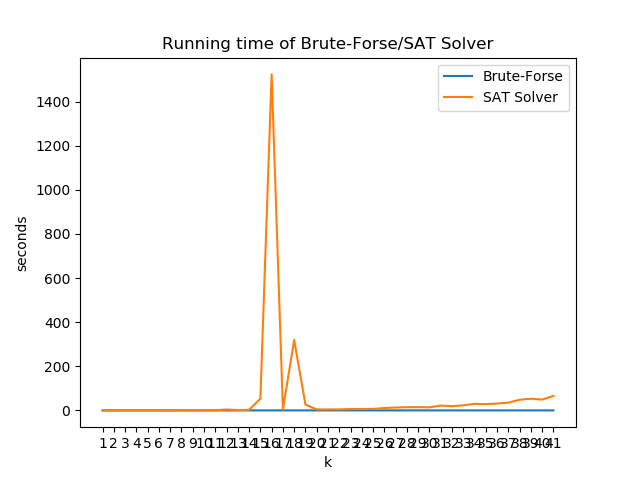
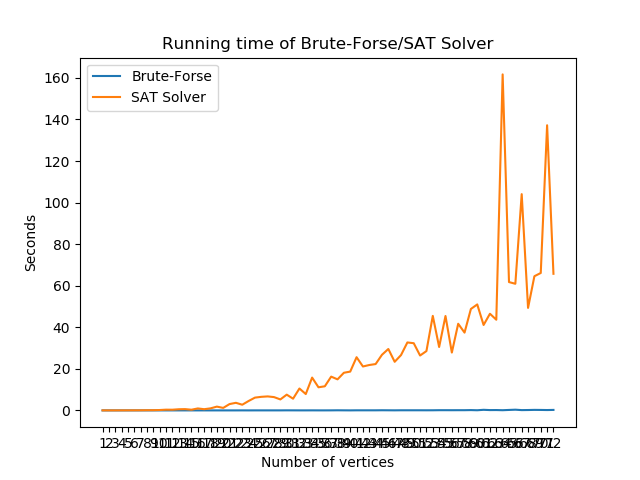
complete

diff --git a/algorithm.py b/algorithm.py
@@ -342,7 +342,7 @@ def dfs_shortest_length(graph, source, target, weight):
 def copy_k_vertices(variables, k):
     return [[Vertex(v.name+str(i)) for i in range(k)] for v in variables]
     
-@profile
+#@profile
 def clique_to_sat(graph, k):
     """
     Clique problem:
@@ -352,38 +352,39 @@ def clique_to_sat(graph, k):
     
     Return a list of CNF clauses that encodes a clique problem to a SAT problem
     """
-    
+    clause = 0
     flatten = lambda list : [item for sublist in list for item in sublist]
     flat_vertices = flatten(copy_k_vertices(graph.vertices, k))
     variables = [Symbol(v.name, INT) for v in flat_vertices]
     first_formula = And([And(GE(v, Int(0)), LE(v, Int(1))) for v in variables])
+    clause += 2*len(variables)
     
     # 1st Constraint
     temp_list = ([[v for v in variables if str(v)[-len(str(r)):] == str(r)] for r in range(k)])
     sum_first_constraint = [Equals(Plus(l), Int(1)) for l in temp_list]
     first_constraint = And(sum_first_constraint)
+    clause += len(temp_list)
     
     # 2nd Constraint
     temp_list = [[v for v in variables if i.name == str(v)[:len(i.name)]] for i in graph.vertices]
     sum_second_constraint = And([LE(Plus(l), Int(1)) for l in temp_list])
+    clause += len(temp_list)
     
     # 3rd Constraint
     non_edge_vertices = []
     non_edge_vertices = [((i, j)) for i in graph.vertices for j in graph.vertices if i != j and i not in j.neighbors]
     non_edge_group_variables = list(set([(Symbol(u.name+str(i), INT), Symbol(v.name+str(j), INT)) for j in range(k) for i in range(k) for (u, v) in non_edge_vertices if i != j]))
     third_constraint = And([Or(Not(Equals(u, Int(1))), Not(Equals(v, Int(1))))for (u, v) in non_edge_group_variables]) 
-
     phi = And(first_constraint, sum_second_constraint, third_constraint, first_formula)
-    get_model(phi)
+    clause += len(non_edge_group_variables)
+    return get_model(phi), clause
         
 def is_clique(vertices):
     """
     We can think this function as an oracle that returns true if given set of vertices can form a clique, otherwise, false.
     Running time : O(n^2)
     """
-    if all(u in v.neighbors for u in vertices for v in vertices if u != v):
-        return True
-    return False
+    return(all(u in v.neighbors for u in vertices for v in vertices if u != v))
          
 def brutal_kclique(graph):
     """
@@ -405,8 +406,8 @@ def brutal_kclique(graph):
     print('Maximum size of clique in graph size of %d is %d' % (k, ans))
     
     # print out all possible ways that forms a clique in a given graph
-    #print([[v.name for v in c]for c in clique if len(c) == k])
-    return k
+    #print([[v.name for v in c]for c in clique if len(c) == ans])
+    return ans, [[v.name for v in c]for c in clique if len(c) == ans]
     
     
     

diff --git a/main.py b/main.py
@@ -15,7 +15,7 @@ def dory_dfs(vertex):
         dory_dfs(e.target)
 
 if __name__ == "__main__":
-    '''
+    
     graph = init_graph_johnson()
     dict = johnson(graph)
     #print(dict)
@@ -87,26 +87,36 @@ if __name__ == "__main__":
     #print(dfs_shortest_length(graph, source, target, 0))
     
     ## k-clique reduction test case
-    graph = init_graph_toy_clique_problem()
-    k = 3
-    #clique_to_sat(graph, k)
-    '''
-    
+    # Example case
+    if sys.argv[1] == '-e':
+        graph = init_graph_toy_clique_problem()
+        print(graph)
+        print('')
+        k, brute_ans = brutal_kclique(graph)
+        print(brute_ans)
+        print('')
+        sat_ans, clause = clique_to_sat(graph, k)    
+        print(sat_ans)
+        print('number of clauses in SAT solver: %d' % (clause))
+        
     ## json file transform to a graph test case
-    for i in range(1, 100):
-        #mem_usage = memory_usage(-1, interval=.2, timeout=1)
-        graph = init_graph_mfriend(i)
-        
-        output = open('output.txt', 'a') 
-        
-        brute_time = time.time()
-        k = brutal_kclique(graph)
-        brute_cost = time.time() - brute_time
-        
-        sat_time = time.time()
-        clique_to_sat(graph, k)
-        sat_cost = time.time() - sat_time
-        
-        
-        output.write("%s,%s,%s\n" % (i, brute_cost, sat_cost))
+    
+    # Analysis mode
+    if sys.argv[1] == '-a':
+        for i in range(1, 100):
+            #mem_usage = memory_usage(-1, interval=.2, timeout=1)
+            graph = init_graph_mfriend(i)
+            
+            output = open('output.txt', 'a') 
+            
+            brute_time = time.time()
+            k, brute_ans = brutal_kclique(graph)
+            brute_cost = time.time() - brute_time
+            
+            sat_time = time.time()
+            sat_ans, clause = clique_to_sat(graph, k)
+            sat_cost = time.time() - sat_time
+            
+            
+            output.write("%s,%s,%s,%s\n" % (i, brute_cost, sat_cost, clause))
         

diff --git a/plotting_clauses.py b/plotting_clauses.py
@@ -1,0 +1,25 @@
+import matplotlib.pyplot as plt 
+
+f = open('output.txt', 'r')
+
+k = []
+clause = []
+for i in f:
+    detail = i.split(',')
+    clause.append(int(detail[3][:-1]))
+    k.append(int(detail[0]))
+    
+    
+
+    
+x = k
+y1 = clause
+
+f.close()
+
+plt.plot(x, y1, label = "#clause")
+plt.xlabel('Number of vertices')
+plt.ylabel('Number of clauses')
+plt.title('Number of clauses to construct the clique problem in SAT solver')
+plt.legend()
+plt.show() 

diff --git a/graph_class.py b/graph_class.py
@@ -21,6 +21,8 @@ class Graph(object):
                 self.edges.append(edge)
                 edge.source.outgoing_edges.append(edge)
                 edge.target.incoming_edges.append(edge)
+                edge.source.neighbors.append(edge.target)
+                edge.target.neighbors.append(edge.source)
             if not edge.directed:
                 edge.directed = True
                 second_edge = Edge((edge.target, edge.source), weight=edge.weight)

diff --git a/plotting_runtime.py b/plotting_runtime.py
@@ -19,8 +19,8 @@ f.close()
 
 plt.plot(x, y1, label = "Brute-Forse")
 plt.plot(x, y2, label = "SAT Solver")
-plt.xlabel('k')
-plt.ylabel('seconds')
+plt.xlabel('Number of vertices')
+plt.ylabel('Seconds')
 plt.title('Running time of Brute-Forse/SAT Solver')
 plt.legend()
 plt.show() 

diff --git a/README.md b/README.md
@@ -1,2 +1,18 @@
 # myGraph
 Implementation of graph from the book [Algorithms](http://jeffe.cs.illinois.edu/teaching/algorithms/) by Jeff Erickson
+
+Commands:
+
+// To see memory usage
+mprof run main.py 
+
+// Analysis mode(it might take an hour)
+python main.py -a
+
+// Example of the SAT solver solves a given graph
+python main.py -e 
+
+// Plotting
+python plotting_mem.py
+python plotting_runtime.py
+python plotting_clauses.py
